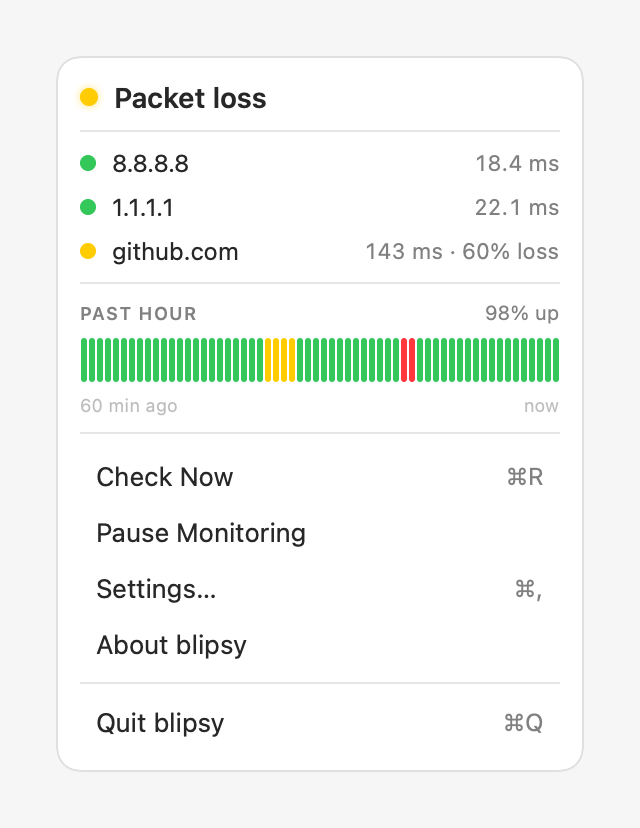
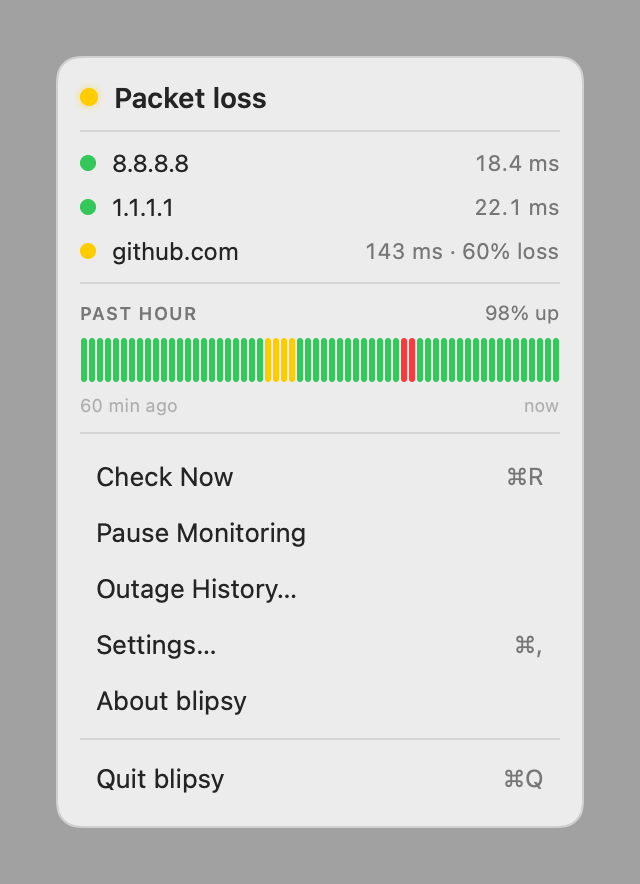
docs: document outage history and refresh screenshots

diff --git a/README.md b/README.md
@@ -51,6 +51,15 @@ uptime.
 
 <div align="center"><img src="docs/panel-multi.png" width="320" alt="blipsy watching multiple targets" /></div>
 
+## Outage history
+
+Click the dot → **Outage History** for a log of exactly when your connection dropped.
+It records every state change to disk, so it survives relaunch, and shows a 7-day
+uptime summary plus a day-by-day list of down (red) and packet-loss (yellow) periods
+with their times and durations.
+
+<div align="center"><img src="docs/history.png" width="360" alt="blipsy outage history" /></div>
+
 ## User flow
 
 | Step |            | What happens                                              |
